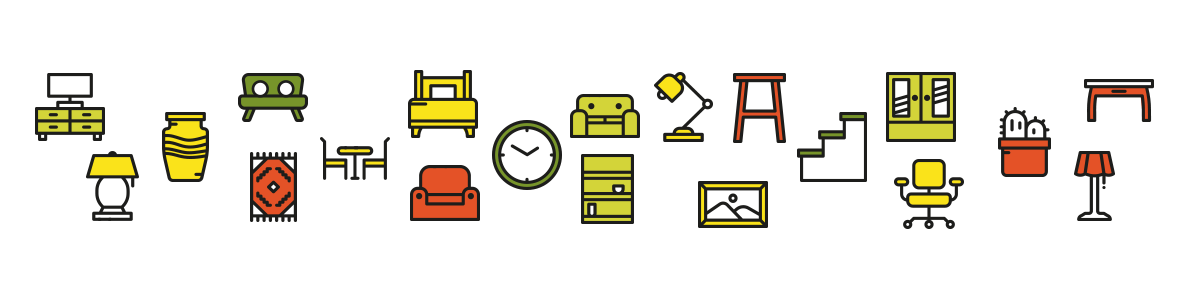
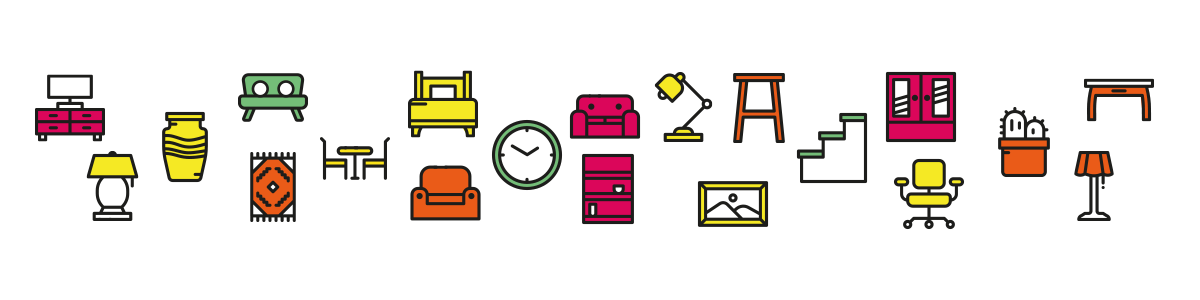
Grafiska justeringar av tema enligt beställning frpn kund.

diff --git a/tage-theme/src/main/webapp/css/tage-custom.css b/tage-theme/src/main/webapp/css/tage-custom.css
@@ -1,26 +1,27 @@
 /* Fonts */
 @font-face {
-    font-family: myriad-pro-bold;
-    src: url(../fonts/MyriadPro-Bold.otf);
+	font-family: myriad-pro-bold;
+	src: url(../fonts/MyriadPro-Bold.otf);
 }
-
 
 /* For customization*/
 
 /* Text boxes */
 
 /* Sthlm */
-.tageweb .dark-orange-box, .dark-orange-box a, .dark-orange-box a:hover {
+.tageweb .dark-orange-box, .dark-orange-box a, .dark-orange-box a:hover
+	{
 	background: #dd4a2c;
 	color: #ffffff;
 }
 
-.tageweb .dark-pink-box, .dark-pink-box a, .dark-pink-box a:hover  {
+.tageweb .dark-pink-box, .dark-pink-box a, .dark-pink-box a:hover {
 	background: #c40064;
 	color: #ffffff;
 }
 
-.tageweb .light-orange-box, .light-orange-box a, .light-orange-box a:hover {
+.tageweb .light-orange-box, .light-orange-box a, .light-orange-box a:hover
+	{
 	background: #ffd7d2;
 	color: #dd4a2c;
 }
@@ -38,7 +39,6 @@
 /* End Sthlm */
 
 /* Kungsbacka */
-
 .tageweb .orange-box, .orange-box a, .orange-box a:hover {
 	background: #e35025;
 	color: #ffffff;
@@ -64,11 +64,9 @@
 	color: #3f3f3f;
 }
 
-
 /* End Kungsbacka */
 
 /*End text boxes*/
-
 .tageweb .content-header .button {
 	background: #f5f3ee;
 	color: #000;
@@ -79,9 +77,9 @@
 }
 
 .tageweb .content-header .primary-button {
-	background: #e35025;
+	background: #9b2864;
 	color: #ffffff;
-	border: 1px solid #e35025;
+	border: 1px solid #9b2864;
 	border-radius: 5px;
 	margin-left: 5px;
 	margin-top: 5px;
@@ -89,54 +87,54 @@
 
 .tageweb .info-box {
 	/*background : #f5f3ee;*/
-	background : #d6edfc;
-} 
+	background: #d6edfc;
+}
 
 .tageweb .info-message {
-    background: #d6edfc;
+	background: #d6edfc;
 }
 
 .tageweb .confirmation-message {
-    background: #d6edfc;
+	background: #d6edfc;
 }
 
 .tageweb .error-message {
-    background: #d22f62;
-    color: #ffffff;
+	background: #d22f62;
+	color: #ffffff;
 }
 
 /* Liferay overrides */
 /* ---------- Navigation ---------- */
 .aui #navigation .navbar-inner {
-	background: #779322;
-    border-width: 0;
-    min-height: 49px;
+	background: #73be78;
+	border-width: 0;
+	min-height: 49px;
 }
 
 .aui #navigation .nav li.active>a {
-	background-color: #d3d53a;
+	background-color: #d0e6cc;
 	color: #3f3f3f;
-    background-image:none;
+	background-image: none;
 }
 
 .aui #navigation .nav li.hover>a {
-	background-color: #d3d53a;
+	background-color: #d0e6cc;
 	color: #3f3f3f;
-    background-image:none;
+	background-image: none;
 }
 
 .aui #footer {
-    border-top: 10px solid #c0b89f;
+	border-top: 10px solid #c0b89f;
 }
 
 .aui body {
-    font-family: "Helvetica Neue",Helvetica,Arial,sans-serif;
+	font-family: "Helvetica Neue", Helvetica, Arial, sans-serif;
 }
 
-@media (max-width: 979px) {
+@media ( max-width : 979px) {
 	.aui #heading .site-title img {
-	    width: 60px;
-	    margin-bottom: 10px;
+		width: 60px;
+		margin-bottom: 10px;
 	}
 }
 
@@ -149,91 +147,126 @@
     position: fixed;
 }
 */
-/* KBA upper login bar, only non mobile*/ 
-
-
+/* KBA upper login bar, only non mobile*/
 .aui .dockbar-split.dockbar-ready .dockbar .navbar-inner {
-	background: #d3d53a;
-    width: 100%;
-    height: auto;
+	background: #23557d;
+	width: 100%;
+	height: auto;
 }
+
+.aui .dockbar-split .dockbar .navbar-inner .nav li.dropdown.open>.dropdown-toggle
+	{
+	background-color: #9b2864 !important;
+	background-image: none !important;
+}
+
+.aui .dockbar-split .dockbar .navbar-inner .nav li:hover {
+	background-color: #9b2864 !important;
+	background-image: none !important;
+}
+
+.aui .dockbar .nav li.dropdown .dropdown-menu, .aui .dockbar .nav li.dropdown .site-administration-menu
+	{
+	background: #9b2864 !important;
+}
+
+.user-avatar-link:hover {
+	background-color: #9b2864 !important;
+}
+
 .aui .nav-account-controls li {
-	background-color: #d3d53a!important;
-	background-image: none!important;
+	background-color: #23557d !important;
+	background-image: none !important;
 	color: #ffffff;
 }
-.header-logo{
-	float:right;
-	padding-bottom:20px;
+
+.aui .nav-account-controls .my-sites-menu li {
+	background: #9b2864 !important;
+	color: #ffffff;
 }
-.site-title{
+
+.header-logo {
+	float: right;
+	padding-bottom: 20px;
+}
+
+.site-title {
 	top: 68px;
 	position: relative;
-	
 }
+
 .site-navigation {
-	clear:both;
+	clear: both;
 }
 
 .aui #navigation .navbar-inner li a {
 	color: #3f3f3f;
 }
+
 .aui .dockbar-split .dockbar .navbar-inner .nav-account-controls {
-	border:none;
+	border: none;
 }
-.aui .dockbar-split .dockbar.navbar-static-top .collapse .nav-account-controls {
-	position:relative;
+
+.aui .dockbar-split .dockbar.navbar-static-top .collapse .nav-account-controls
+	{
+	position: relative;
 }
+
 #recycling {
-    background: url(../images/recycling.png) repeat-x scroll 0 transparent;
-    bottom: 0;
-    z-index: 200;
-    height: 170px;
-    padding-top: 50px;
+	background: url(../images/recycling.png) repeat-x scroll 0 transparent;
+	bottom: 0;
+	z-index: 200;
+	height: 170px;
+	padding-top: 50px;
 }
-.aui .tageweb .large-box p, .aui .tageweb .large-box ul{
-	font-family: "Georgia",Helvetica,Arial,sans-serif;
+
+.aui .tageweb .large-box p, .aui .tageweb .large-box ul {
+	font-family: "Georgia", Helvetica, Arial, sans-serif;
 	font-size: 20px;
 	line-height: 25px;
 }
+
 .aui h1, .aui h2, .aui h3, .aui .lfr-nav-item {
-	font-family: "myriad-pro-bold",Helvetica,Arial,sans-serif;
+	font-family: "myriad-pro-bold", Helvetica, Arial, sans-serif;
 }
 
-@media (min-width: 980px) {
+@media ( min-width : 980px) {
 	.aui .site-title {
-		font-size:60px;
+		font-size: 60px;
 	}
 }
-@media (min-width: 980px) {
+
+@media ( min-width : 980px) {
 	.tageweb h1 {
-	    font-size: 28px;
-	    line-height: 33px;
+		font-size: 28px;
+		line-height: 33px;
 	}
 }
 
 .aui .mobile-title {
-    font-family: "myriad-pro-bold",Helvetica,Arial,sans-serif;
-    font-size: 30px;
-    color: #3F3F3F;
+	font-family: "myriad-pro-bold", Helvetica, Arial, sans-serif;
+	font-size: 30px;
+	color: #3F3F3F;
 }
-@media (min-width: 980px) {
+
+@media ( min-width : 980px) {
 	.aui .mobile-title {
-	    display: none;
+		display: none;
 	}
 }
 
-@media (max-width: 979px) {
+@media ( max-width : 979px) {
 	.aui .header-logo {
-	    display: none;	    
+		display: none;
 	}
 	.aui .site-title {
-	    display: none;	    
+		display: none;
 	}
 	.aui #navigation.open .navbar-inner {
-	    margin-bottom: 30px;
+		margin-bottom: 30px;
 	}
 }
+
 #display-option-section {
 	display: none;
 }
